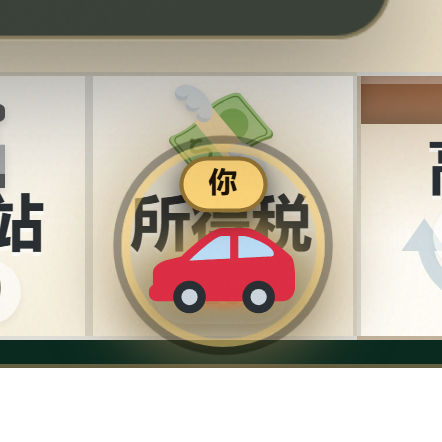
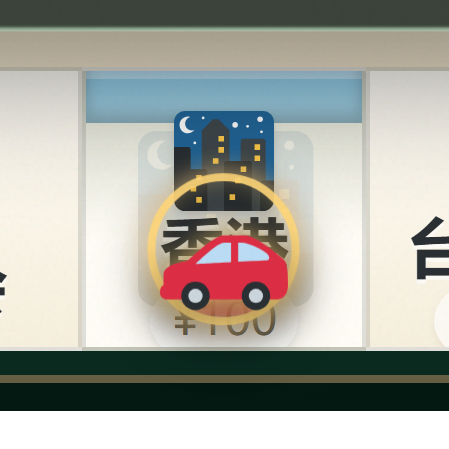
ui: 棋子高亮调整

diff --git a/docs/style.css b/docs/style.css
@@ -628,54 +628,27 @@ button, input { font: inherit; color: inherit; }
 .tk.walking img { animation: hop 0.32s linear infinite; }
 .tk.jump { animation: teleportIn 0.38s ease; }
 
-/* 自己的棋子：金色光环 + 「你」标签 */
-.tk.me {
-  z-index: 6;
-  background: radial-gradient(circle at 50% 55%, rgba(255, 215, 122, 0.3), transparent 68%);
-  border-radius: 50%;
-}
-.tk.me img {
-  transform: scale(1.22);
-  filter: drop-shadow(0 0 5px rgba(255, 215, 122, 0.95)) drop-shadow(0 2px 4px rgba(0, 0, 0, 0.5));
-}
+/* 自己的棋子：贴边金环，不放大、不加标签 */
+.tk.me { z-index: 6; }
+.tk.me img { filter: drop-shadow(0 0 4px rgba(255, 215, 122, 0.9)) drop-shadow(0 2px 4px rgba(0, 0, 0, 0.5)); }
 .tk.me::after {
   content: "";
   position: absolute;
   left: 50%;
   top: 50%;
-  width: 150%;
-  height: 150%;
+  width: 106%;
+  height: 106%;
   transform: translate(-50%, -50%);
   border-radius: 50%;
-  border: 2.5px solid #ffd77a;
-  box-shadow: 0 0 0 2px rgba(20, 14, 4, 0.55), 0 0 16px 6px rgba(233, 196, 134, 0.6),
-    inset 0 0 12px rgba(255, 215, 122, 0.35);
-  animation: mePulse 1.8s ease-in-out infinite;
+  border: 2px solid #ffd77a;
+  box-shadow: 0 0 6px 1px rgba(233, 196, 134, 0.7), inset 0 0 6px rgba(255, 215, 122, 0.3);
   pointer-events: none;
   z-index: 0;
+  animation: meGlow 2.2s ease-in-out infinite;
 }
-.tk-tag {
-  display: none;
-  position: absolute;
-  left: 50%;
-  top: -24%;
-  transform: translateX(-50%);
-  padding: 1px 6px;
-  border-radius: 999px;
-  background: #ffd77a;
-  border: 1px solid rgba(90, 64, 16, 0.65);
-  color: #1d1405;
-  font-size: calc(var(--tile-fs) * 0.46);
-  font-weight: 800;
-  line-height: 1.45;
-  white-space: nowrap;
-  box-shadow: 0 2px 6px rgba(0, 0, 0, 0.5);
-  z-index: 2;
-}
-.tk.me .tk-tag { display: block; }
-@keyframes mePulse {
-  0%, 100% { opacity: 0.55; transform: translate(-50%, -50%) scale(1); }
-  50% { opacity: 1; transform: translate(-50%, -50%) scale(1.1); }
+@keyframes meGlow {
+  0%, 100% { opacity: 0.7; }
+  50% { opacity: 1; }
 }
 
 .float-money {

diff --git a/public/style.css b/public/style.css
@@ -628,54 +628,27 @@ button, input { font: inherit; color: inherit; }
 .tk.walking img { animation: hop 0.32s linear infinite; }
 .tk.jump { animation: teleportIn 0.38s ease; }
 
-/* 自己的棋子：金色光环 + 「你」标签 */
-.tk.me {
-  z-index: 6;
-  background: radial-gradient(circle at 50% 55%, rgba(255, 215, 122, 0.3), transparent 68%);
-  border-radius: 50%;
-}
-.tk.me img {
-  transform: scale(1.22);
-  filter: drop-shadow(0 0 5px rgba(255, 215, 122, 0.95)) drop-shadow(0 2px 4px rgba(0, 0, 0, 0.5));
-}
+/* 自己的棋子：贴边金环，不放大、不加标签 */
+.tk.me { z-index: 6; }
+.tk.me img { filter: drop-shadow(0 0 4px rgba(255, 215, 122, 0.9)) drop-shadow(0 2px 4px rgba(0, 0, 0, 0.5)); }
 .tk.me::after {
   content: "";
   position: absolute;
   left: 50%;
   top: 50%;
-  width: 150%;
-  height: 150%;
+  width: 106%;
+  height: 106%;
   transform: translate(-50%, -50%);
   border-radius: 50%;
-  border: 2.5px solid #ffd77a;
-  box-shadow: 0 0 0 2px rgba(20, 14, 4, 0.55), 0 0 16px 6px rgba(233, 196, 134, 0.6),
-    inset 0 0 12px rgba(255, 215, 122, 0.35);
-  animation: mePulse 1.8s ease-in-out infinite;
+  border: 2px solid #ffd77a;
+  box-shadow: 0 0 6px 1px rgba(233, 196, 134, 0.7), inset 0 0 6px rgba(255, 215, 122, 0.3);
   pointer-events: none;
   z-index: 0;
+  animation: meGlow 2.2s ease-in-out infinite;
 }
-.tk-tag {
-  display: none;
-  position: absolute;
-  left: 50%;
-  top: -24%;
-  transform: translateX(-50%);
-  padding: 1px 6px;
-  border-radius: 999px;
-  background: #ffd77a;
-  border: 1px solid rgba(90, 64, 16, 0.65);
-  color: #1d1405;
-  font-size: calc(var(--tile-fs) * 0.46);
-  font-weight: 800;
-  line-height: 1.45;
-  white-space: nowrap;
-  box-shadow: 0 2px 6px rgba(0, 0, 0, 0.5);
-  z-index: 2;
-}
-.tk.me .tk-tag { display: block; }
-@keyframes mePulse {
-  0%, 100% { opacity: 0.55; transform: translate(-50%, -50%) scale(1); }
-  50% { opacity: 1; transform: translate(-50%, -50%) scale(1.1); }
+@keyframes meGlow {
+  0%, 100% { opacity: 0.7; }
+  50% { opacity: 1; }
 }
 
 .float-money {

diff --git a/docs/js/app.js b/docs/js/app.js
@@ -430,7 +430,7 @@ function syncTokens(v) {
       el.className = 'tk instant';
       el.dataset.pid = p.id;
       el.style.setProperty('--pc', p.color);
-      el.innerHTML = `<img src="${icon(pieceOf(p.piece).file)}" alt="${esc(p.name)}"><b class="tk-tag">你</b>`;
+      el.innerHTML = `<img src="${icon(pieceOf(p.piece).file)}" alt="${esc(p.name)}">`;
       if (p.id === S.me) el.classList.add('me');
       layer.appendChild(el);
       t = { el, pos: p.pos, walking: false };

diff --git a/public/js/app.js b/public/js/app.js
@@ -430,7 +430,7 @@ function syncTokens(v) {
       el.className = 'tk instant';
       el.dataset.pid = p.id;
       el.style.setProperty('--pc', p.color);
-      el.innerHTML = `<img src="${icon(pieceOf(p.piece).file)}" alt="${esc(p.name)}"><b class="tk-tag">你</b>`;
+      el.innerHTML = `<img src="${icon(pieceOf(p.piece).file)}" alt="${esc(p.name)}">`;
       if (p.id === S.me) el.classList.add('me');
       layer.appendChild(el);
       t = { el, pos: p.pos, walking: false };
